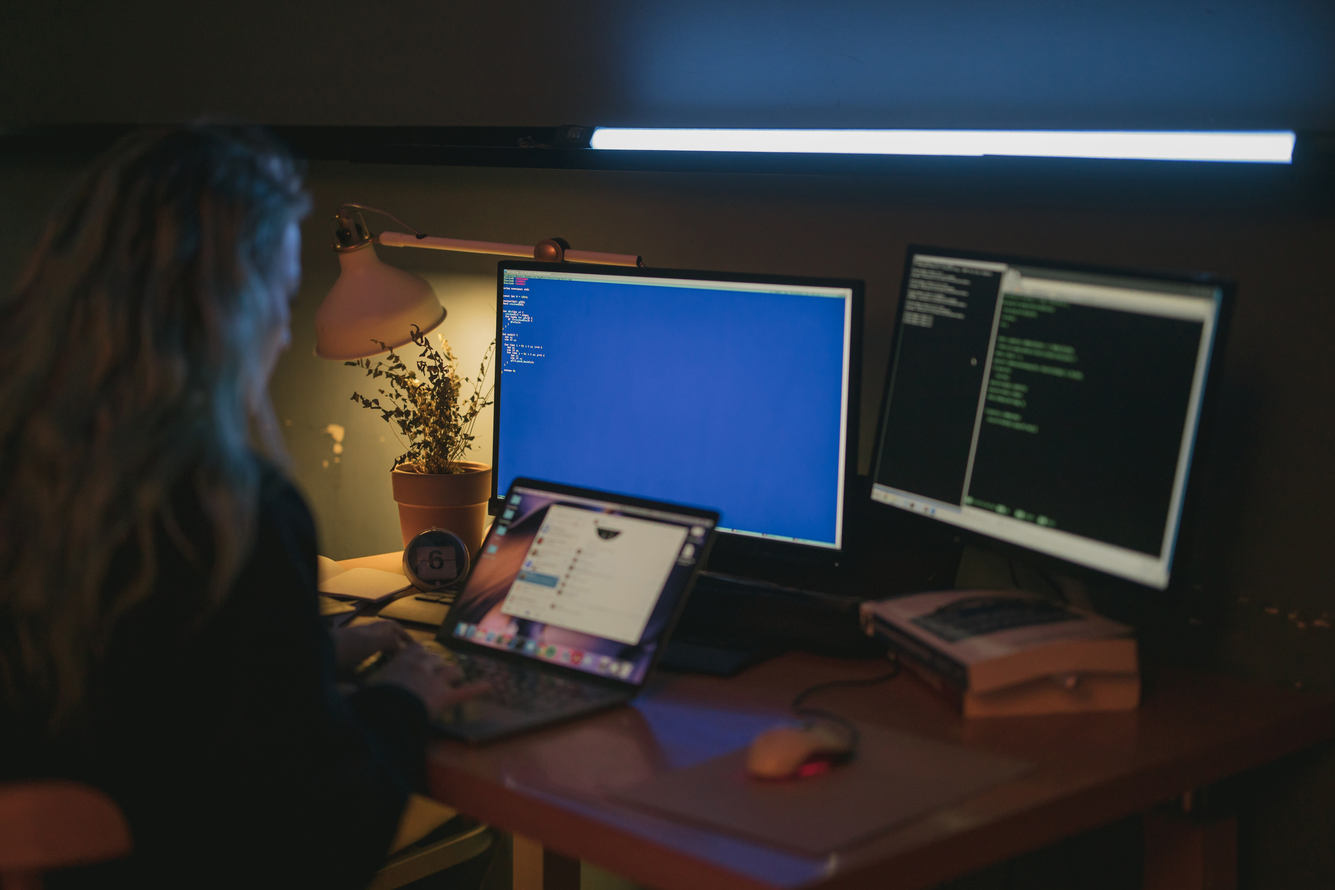
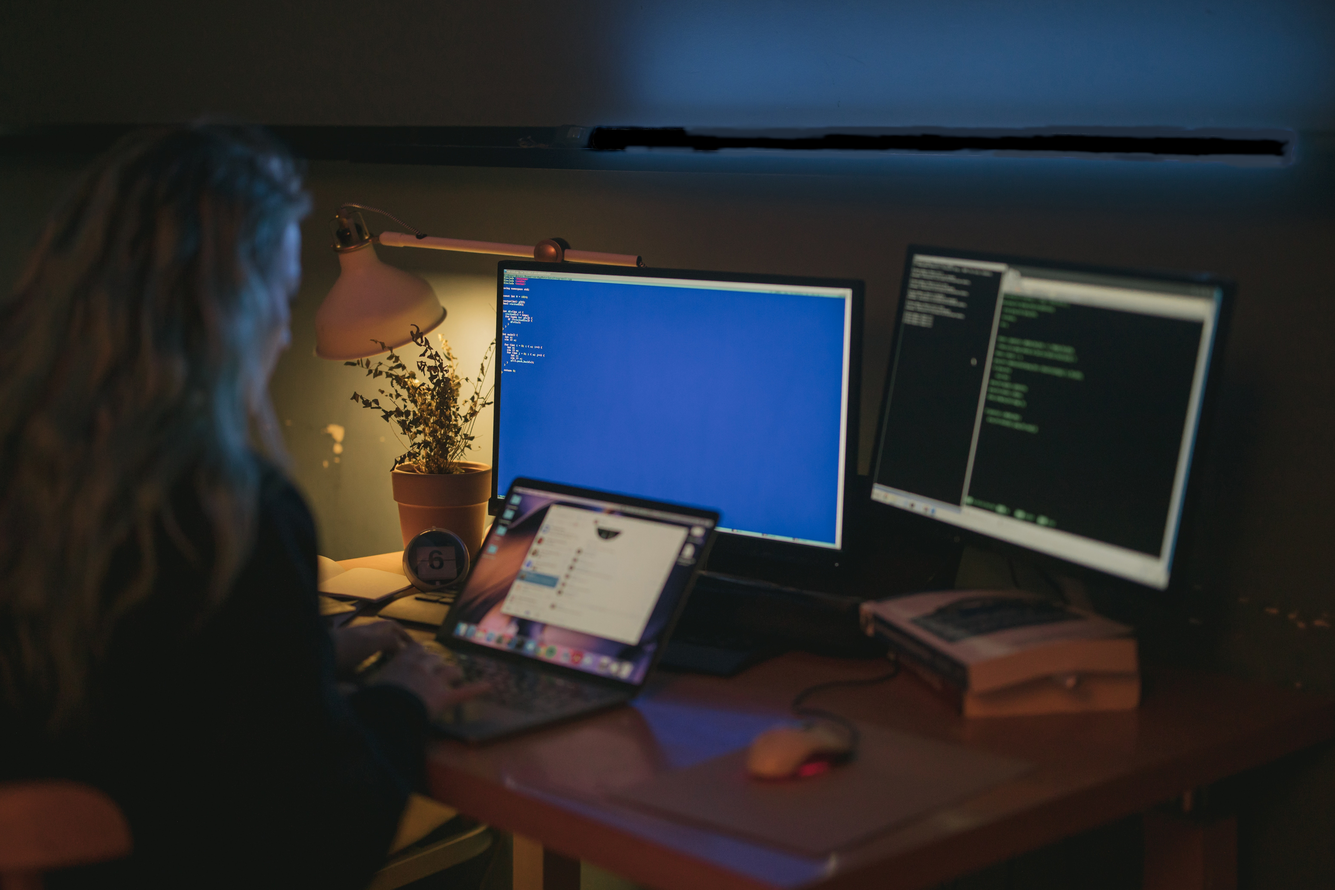
cambio de imagenes

Changed region(s): [[0.4371, 0.1246, 0.968, 0.1869]]

diff --git a/src/app/views/home/home.component.html b/src/app/views/home/home.component.html
@@ -1,4 +1,4 @@
-<div class="col-12 image_body " *ngIf="indice == 0" style="background-image: url('./assets/img/tecmhi/pexels-cottonbro-5473298.jpg');">
+<div class="col-12 image_body " *ngIf="indice == 0" style="background-image: url('./assets/img/tecmhi/pexels-cottonbro-5473298.jpg'); filter: grayscale(50%);">
   <div class="texto-info">
 
     <div class="banner_content text-center">
